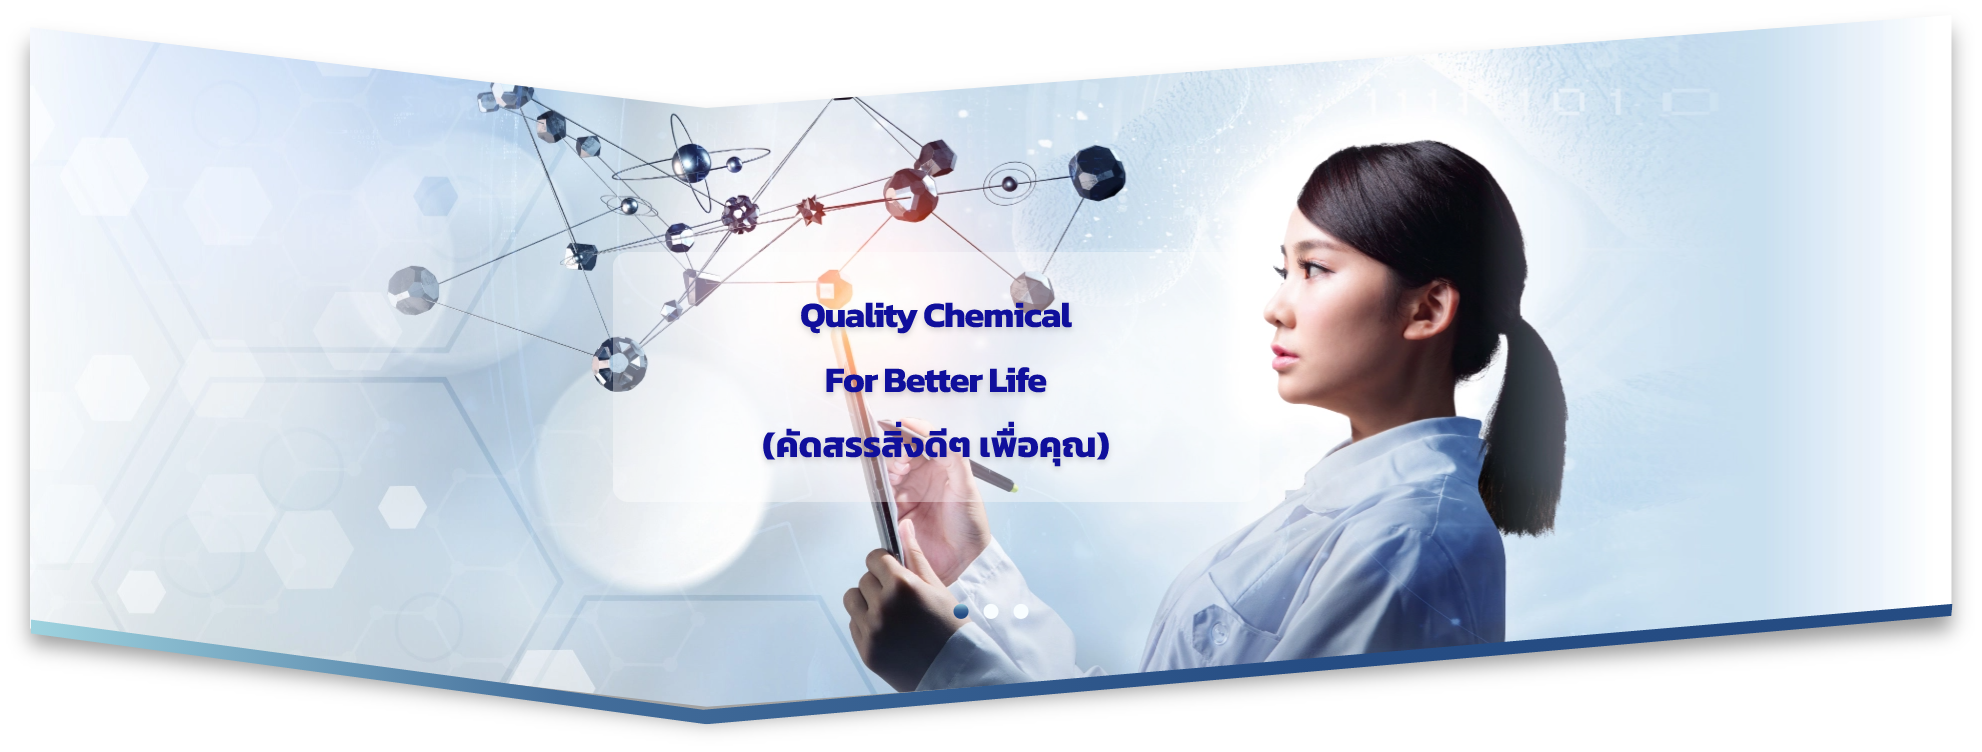
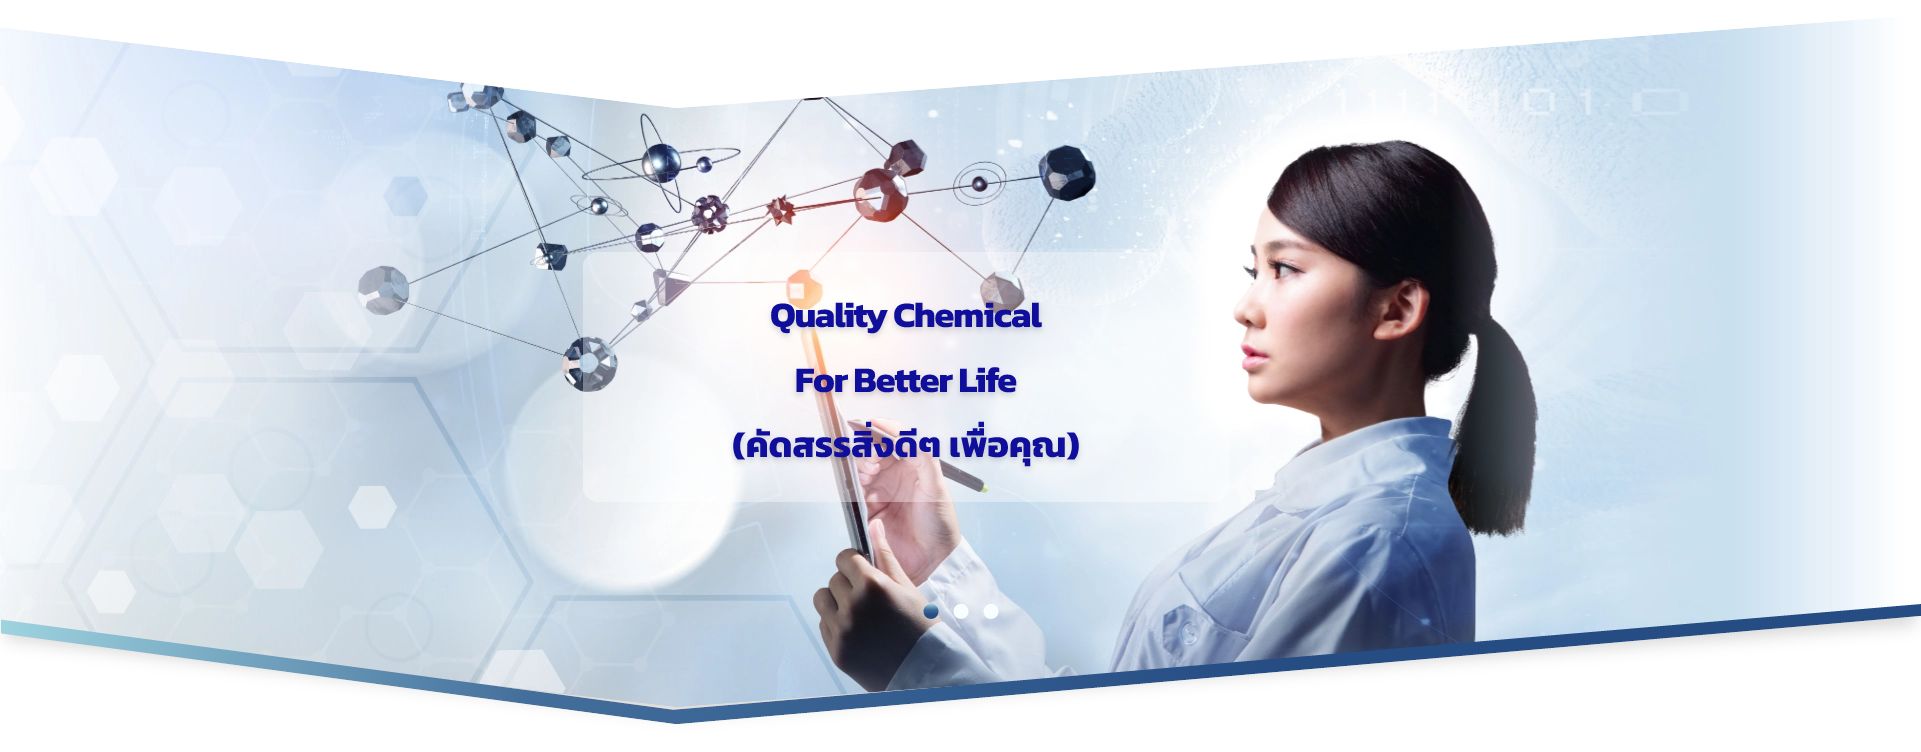
update Application

diff --git a/src/pages/Home.jsx b/src/pages/Home.jsx
@@ -11,6 +11,8 @@ import {
   UnitedStates,
 } from "../components/icons/icons";
 import { Box, FormControl, InputLabel, MenuItem, Select } from "@mui/material";
+import ThreeDots from "../components/ThreeDots/ThreeDots";
+import ApplicationLists from "../components/ApplicationLists/ApplicationLists";
 
 // const qs = require("qs");
 
@@ -19,18 +21,8 @@ const Home = () => {
   const { t, i18n } = useTranslation();
 
   const handleLanguageChange = (e) => {
-    // let changeText = attrLang === "th" ? "en" : "th";
-    // localStorage.setItem("i18nextLng", changeText);
-    // setLang(changeText);
     i18n.changeLanguage(e.target.value);
   };
-
-  // const handleLang = (event, attrLang) => {
-  //   let changeText = attrLang === "th" ? "en" : "th";
-  //   localStorage.setItem("i18nextLng", changeText);
-  //   setLang(localStorage.getItem("i18nextLng"));
-  //   i18n.changeLanguage(lang);
-  // };
 
   useEffect(() => {
     const storedLang = localStorage.getItem("i18nextLng");
@@ -42,16 +34,6 @@ const Home = () => {
     }
   }, [lang]);
   console.log("lang", lang);
-
-  // useEffect(() => {
-  //   // console.log(localStorage.getItem("itemsHref"));
-  //   if (localStorage.getItem("watana_lang")) {
-  //     setLang(localStorage.getItem("watana_lang"));
-  //     i18n.changeLanguage(lang);
-  //   } else {
-  //     setLang("th");
-  //   }
-  // }, []);
 
   return (
     <div id="home">
@@ -66,7 +48,7 @@ const Home = () => {
 
         <MenuNavbar>
           <Box>
-            <FormControl fullWidth className="border-0px">
+            <FormControl fullWidth variant="standard">
               {/* <InputLabel id="demo-simple-select-label">Age</InputLabel> */}
               <Select
                 labelId="demo-simple-select-label"
@@ -88,51 +70,108 @@ const Home = () => {
             </FormControl>
           </Box>
         </MenuNavbar>
-        <HeaderBanner src="/images/Banner/HomeBanner.png" />
+
+        <div className="relative">
+          <div className="bg-[url('/images/triBanner.png')] h-[120px] w-full bannerImages absolute top-[-25px] z-50 "></div>
+          <HeaderBanner src="/images/Banner/HomeBanner.png" />
+        </div>
         {/* Product search  */}
-        <section className="container mx-auto py-16 w-[60%]">
-          <div className="flex flex-col gap-5 ">
-            <h1 className="uppercase text-center text-red">Product search</h1>
-            <h1 className="text-blue text-center">ค้าหาสินค้า</h1>
-            <div className="flex justify-center">
-              <div className="bg-red h-[9px] w-[9px] rounded-full"></div>
-              <div className=" border-t-2 border-red w-1 my-auto"></div>
-              <div className="bg-red h-[9px] w-[9px] rounded-full"></div>
-              <div className=" border-t-2 border-red w-1 my-auto"></div>
-              <div className="bg-red h-[9px] w-[9px] rounded-full"></div>
+        {/* <section className="bg-[url('/images/home/Group2133.png')] bg-no-repeat bg-right "> */}
+        <section
+          className="bg-[url('/images/home/Group2133.png')] bg-no-repeat  bg-auto z-100 bg-right"
+          style={{
+            backgroundPosition: "right -72% bottom 100% ",
+            backgroundSize: "60%",
+          }}
+        >
+          <div className="container mx-auto py-16 w-[53.5%] h-100 ">
+            {/* <img
+            src="/images/home/Group2133.png"
+            className="absolute right-[-915px] top-[-30px] -z-10 "
+          /> */}
+            <div className="flex flex-col mx-auto gap-5 ">
+              <h1 className="uppercase text-center text-red">Product search</h1>
+              <h1 className="text-blue text-center">ค้าหาสินค้า</h1>
+              <ThreeDots />
+            </div>
+            <div
+              className="bg-[url('/images/home/Group2149.png')]  bg-no-repeat bg-center bg-auto  h-[358px] w-full flex flex-col justify-end"
+              style={{ backgroundSize: "100%" }}
+            >
+              <label className="input input-primary rounded-full flex items-center gap-2 mx-[79px]">
+                <input
+                  type="text"
+                  className="grow"
+                  placeholder={lang === "th" ? `ค้นหาสินค้า` : `PRODUCT SEARCH`}
+                />
+                <svg
+                  xmlns="http://www.w3.org/2000/svg"
+                  viewBox="0 0 16 16"
+                  fill="#100F9C"
+                  stroke="#100F9C"
+                  className="h-5 w-5 opacity-70 "
+                >
+                  <path
+                    fillRule="evenodd"
+                    d="M9.965 11.026a5 5 0 1 1 1.06-1.06l2.755 2.754a.75.75 0 1 1-1.06 1.06l-2.755-2.754ZM10.5 7a3.5 3.5 0 1 1-7 0 3.5 3.5 0 0 1 7 0Z"
+                    clipRule="evenodd"
+                  />
+                </svg>
+              </label>
+              <img
+                src="/images/home/Component31– 2.png"
+                className="h-[90px] mt-[50px] mb-[30px] px-[79px]"
+              />
             </div>
           </div>
-          <div className="bg-[url('/images/home/Group2149.png')] b h-[358px] w-100 flex flex-col justify-end">
-            <label className="input input-primary rounded-full flex items-center gap-2">
-              <input
-                type="text"
-                className="grow"
-                placeholder={lang === "th" ? `ค้นหาสินค้า` : `PRODUCT SEARCH`}
-              />
-              <svg
-                xmlns="http://www.w3.org/2000/svg"
-                viewBox="0 0 16 16"
-                fill="#100F9C"
-                stroke="#100F9C"
-                className="h-5 w-5 opacity-70 "
-              >
-                <path
-                  fillRule="evenodd"
-                  d="M9.965 11.026a5 5 0 1 1 1.06-1.06l2.755 2.754a.75.75 0 1 1-1.06 1.06l-2.755-2.754ZM10.5 7a3.5 3.5 0 1 1-7 0 3.5 3.5 0 0 1 7 0Z"
-                  clipRule="evenodd"
-                />
-              </svg>
-            </label>
-            <img
-              src="/images/home/Component31– 2.png"
-              className="h-[90px] mt-[50px] mb-[30px] px-[79px]"
-            />
-          </div>
         </section>
+
         {/* who we are */}
         <section className="flex h-[608px]">
           <div className="bg-[url('/images/home/Group2349.png')] w-full bannerImages"></div>
-          <div className="bg-[url('/images/home/Path3647.png')] w-full bannerImages"></div>
+          <div className="bg-[url('/images/home/Path3647.png')] w-full bannerImages flex flex-col gap-5 items-center justify-center text-center">
+            <h1 className="text-white">WHO WE ARE </h1>
+            <h1 className="text-white">เราคือใคร</h1>
+            <ThreeDots />
+
+            <p className="text-white w-[56%]">
+              บริษัท ปิ่นวัฒนาการค้า จำกัด คือ ผู้นำเข้า-ส่งออก
+              และจัดจำหน่ายเคมีภัณฑ์อุตสาหกรรมจากทั่วโลก ตั้งแต่ปี พ.ศ. 2518{" "}
+              <br />
+              มีชื่อเสียงยาวนาน เคมีภัณฑ์คุณภาพ ราคายุติธรรม บริการประทับใจ
+            </p>
+            <button
+              className="btn hover:drop-shadow-red  text-white rounded-full w-36 border-0 button-red"
+              style={{
+                background:
+                  "linear-gradient(180deg, rgba(220,30,50,1) 0%, rgba(255,65,85,1) 100%)",
+              }}
+            >
+              <p className="hover:tracking-widest">อ่านต่อ</p>
+            </button>
+          </div>
+        </section>
+        {/* Application */}
+        <section className="container mx-auto ">
+          <div className="text-center flex flex-col gap-4 py-16">
+            <h1 className="text-red">Application</h1>
+            <h1 className="text-blue">การใช้งาน</h1>
+            <ThreeDots />
+          </div>
+          <div className="grid grid-cols-4">
+            <ApplicationLists
+              src="/images/applications/Cleaning/Component36.png"
+              hoverSrc="/images/applications/Cleaning/Hover/Component36hover.png"
+            />
+            <ApplicationLists
+              src="/images/applications/Cosmetics/Component37.png"
+              hoverSrc="/images/applications/Cosmetics/Hover/Component37hover.png"
+            />
+            <ApplicationLists
+              src="/images/applications/Electronics/Component38.png"
+              hoverSrc="/images/applications/Electronics/Hover/Component38hover.png"
+            />
+          </div>
         </section>
 
         <Footer></Footer>

diff --git a/src/components/ApplicationLists/ApplicationLists.jsx b/src/components/ApplicationLists/ApplicationLists.jsx
@@ -1,0 +1,33 @@
+import React, { useState } from "react";
+
+function ApplicationLists({ src, hoverSrc }) {
+  const [isHover, setIsHover] = useState(false);
+
+  const handleMouseEnter = () => {
+    setIsHover(true);
+  };
+
+  const handleMouseLeave = () => {
+    setIsHover(false);
+  };
+
+  const HoverApplication = (src, hoverSrc, isHover = false) => {
+    let a = src;
+    if (isHover === true) {
+      a = hoverSrc;
+    }
+    // isHover ? (a = hoverSrc) : (a = src);
+    return a;
+  };
+
+  return (
+    <img
+      onMouseEnter={handleMouseEnter}
+      onMouseLeave={handleMouseLeave}
+      className="cursor-pointer"
+      src={HoverApplication(src, hoverSrc, isHover)}
+    />
+  );
+}
+
+export default ApplicationLists;

diff --git a/src/components/Navbar/MenuNavbar.jsx b/src/components/Navbar/MenuNavbar.jsx
@@ -35,8 +35,8 @@ function MenuNavbar({ children }) {
 
   return (
     <>
-      <div className="container mx-auto flex h-16 my-10 justify-between">
-        <div className="bg-green-400 w-20 h-16"></div>
+      <div className="container mx-auto flex text-blue h-16 my-10 justify-between">
+        <img src="/images/Logo/Group7_0.png"></img>
         <div className="md:flex hidden gap-16 items-center ">
           <p>{lang === "th" ? "เกี่ยวกับบริษัท" : "about us"}</p>
           <p>รายการสินค้า</p>

diff --git a/src/components/ThreeDots/ThreeDots.jsx b/src/components/ThreeDots/ThreeDots.jsx
@@ -1,0 +1,15 @@
+import React from "react";
+
+function ThreeDots() {
+  return (
+    <div className="flex justify-center">
+      <div className="bg-red h-[9px] w-[9px] rounded-full"></div>
+      <div className=" border-t-2 border-red w-1 my-auto"></div>
+      <div className="bg-red h-[9px] w-[9px] rounded-full"></div>
+      <div className=" border-t-2 border-red w-1 my-auto"></div>
+      <div className="bg-red h-[9px] w-[9px] rounded-full"></div>
+    </div>
+  );
+}
+
+export default ThreeDots;

diff --git a/src/components/Banner/HeaderBanner.jsx b/src/components/Banner/HeaderBanner.jsx
@@ -2,7 +2,10 @@ import React from "react";
 
 function HeaderBanner({ src }) {
   return (
-    <div className={`bg-[url("${src}")] bannerImages w-100 h-[700px]`}></div>
+    <div
+      className={`bannerImages w-100 h-[700px] `}
+      style={{ backgroundImage: `url(${src})` }}
+    ></div>
   );
 }
 

diff --git a/tailwind.config.js b/tailwind.config.js
@@ -5,8 +5,12 @@ export default {
     extend: {
       colors: {
         red: "#DC1E32",
+        red1: "#FF4155",
         blue: "#100F9C",
         grey: "#424143",
+      },
+      dropShadow: {
+        red: "0 2px 5px #DC1E32",
       },
     },
   },

diff --git a/src/index.css b/src/index.css
@@ -7,6 +7,9 @@
     font-size: clamp(24px, 3vw, 36px);
     font-weight: bold;
   }
+  p {
+    font-size: clamp(16px, 3vw, 18px);
+  }
 }
 
 @layer components {
